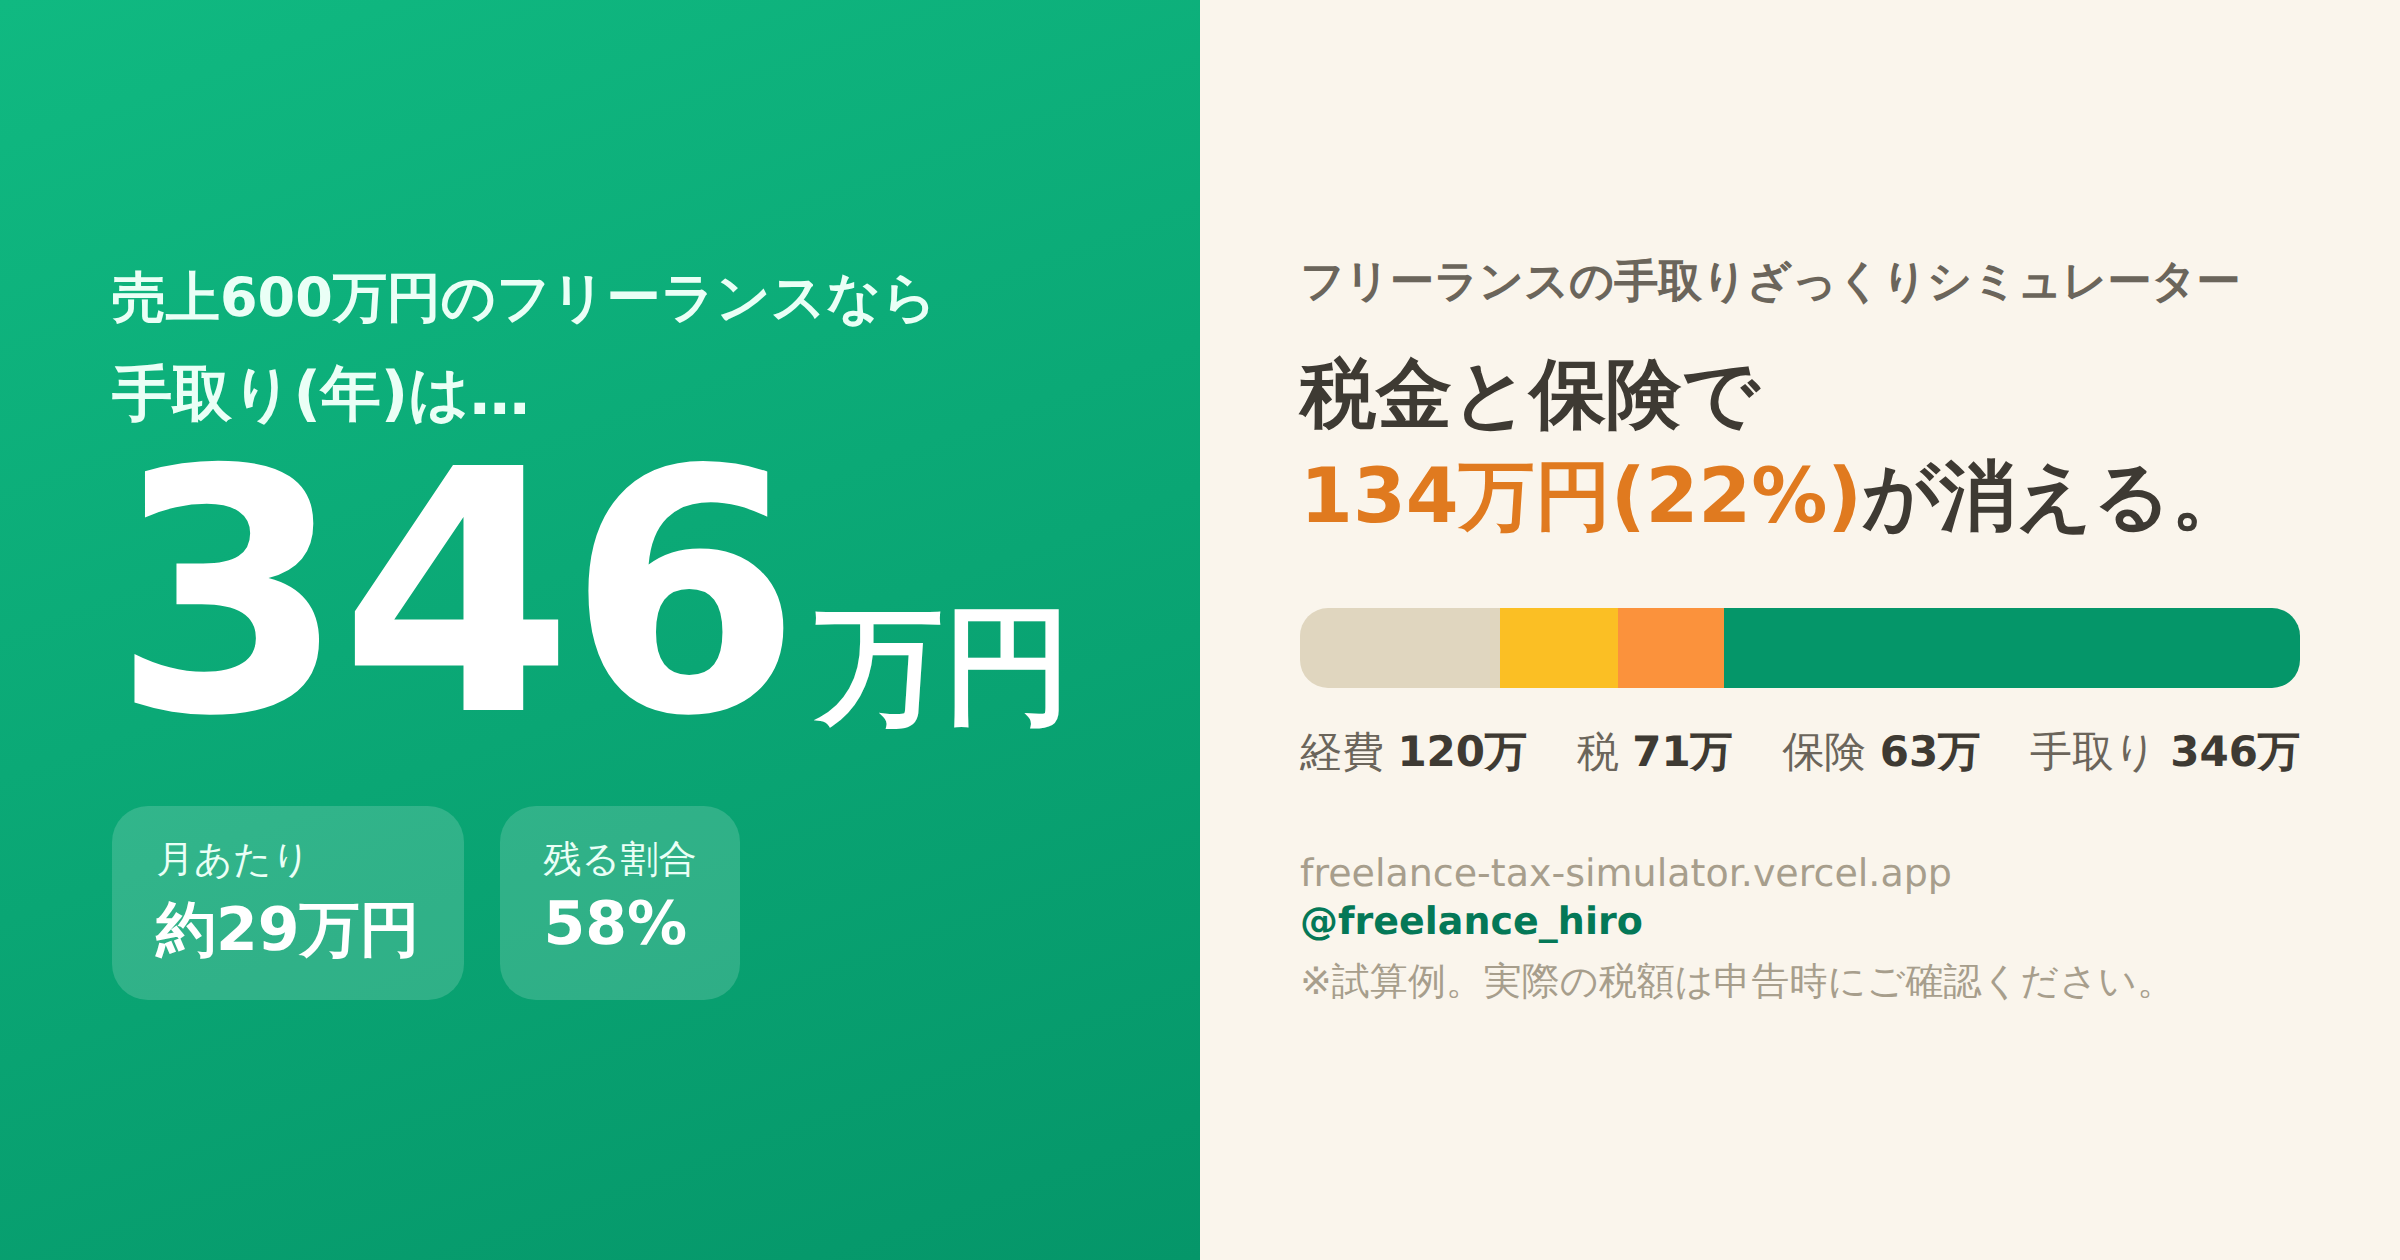
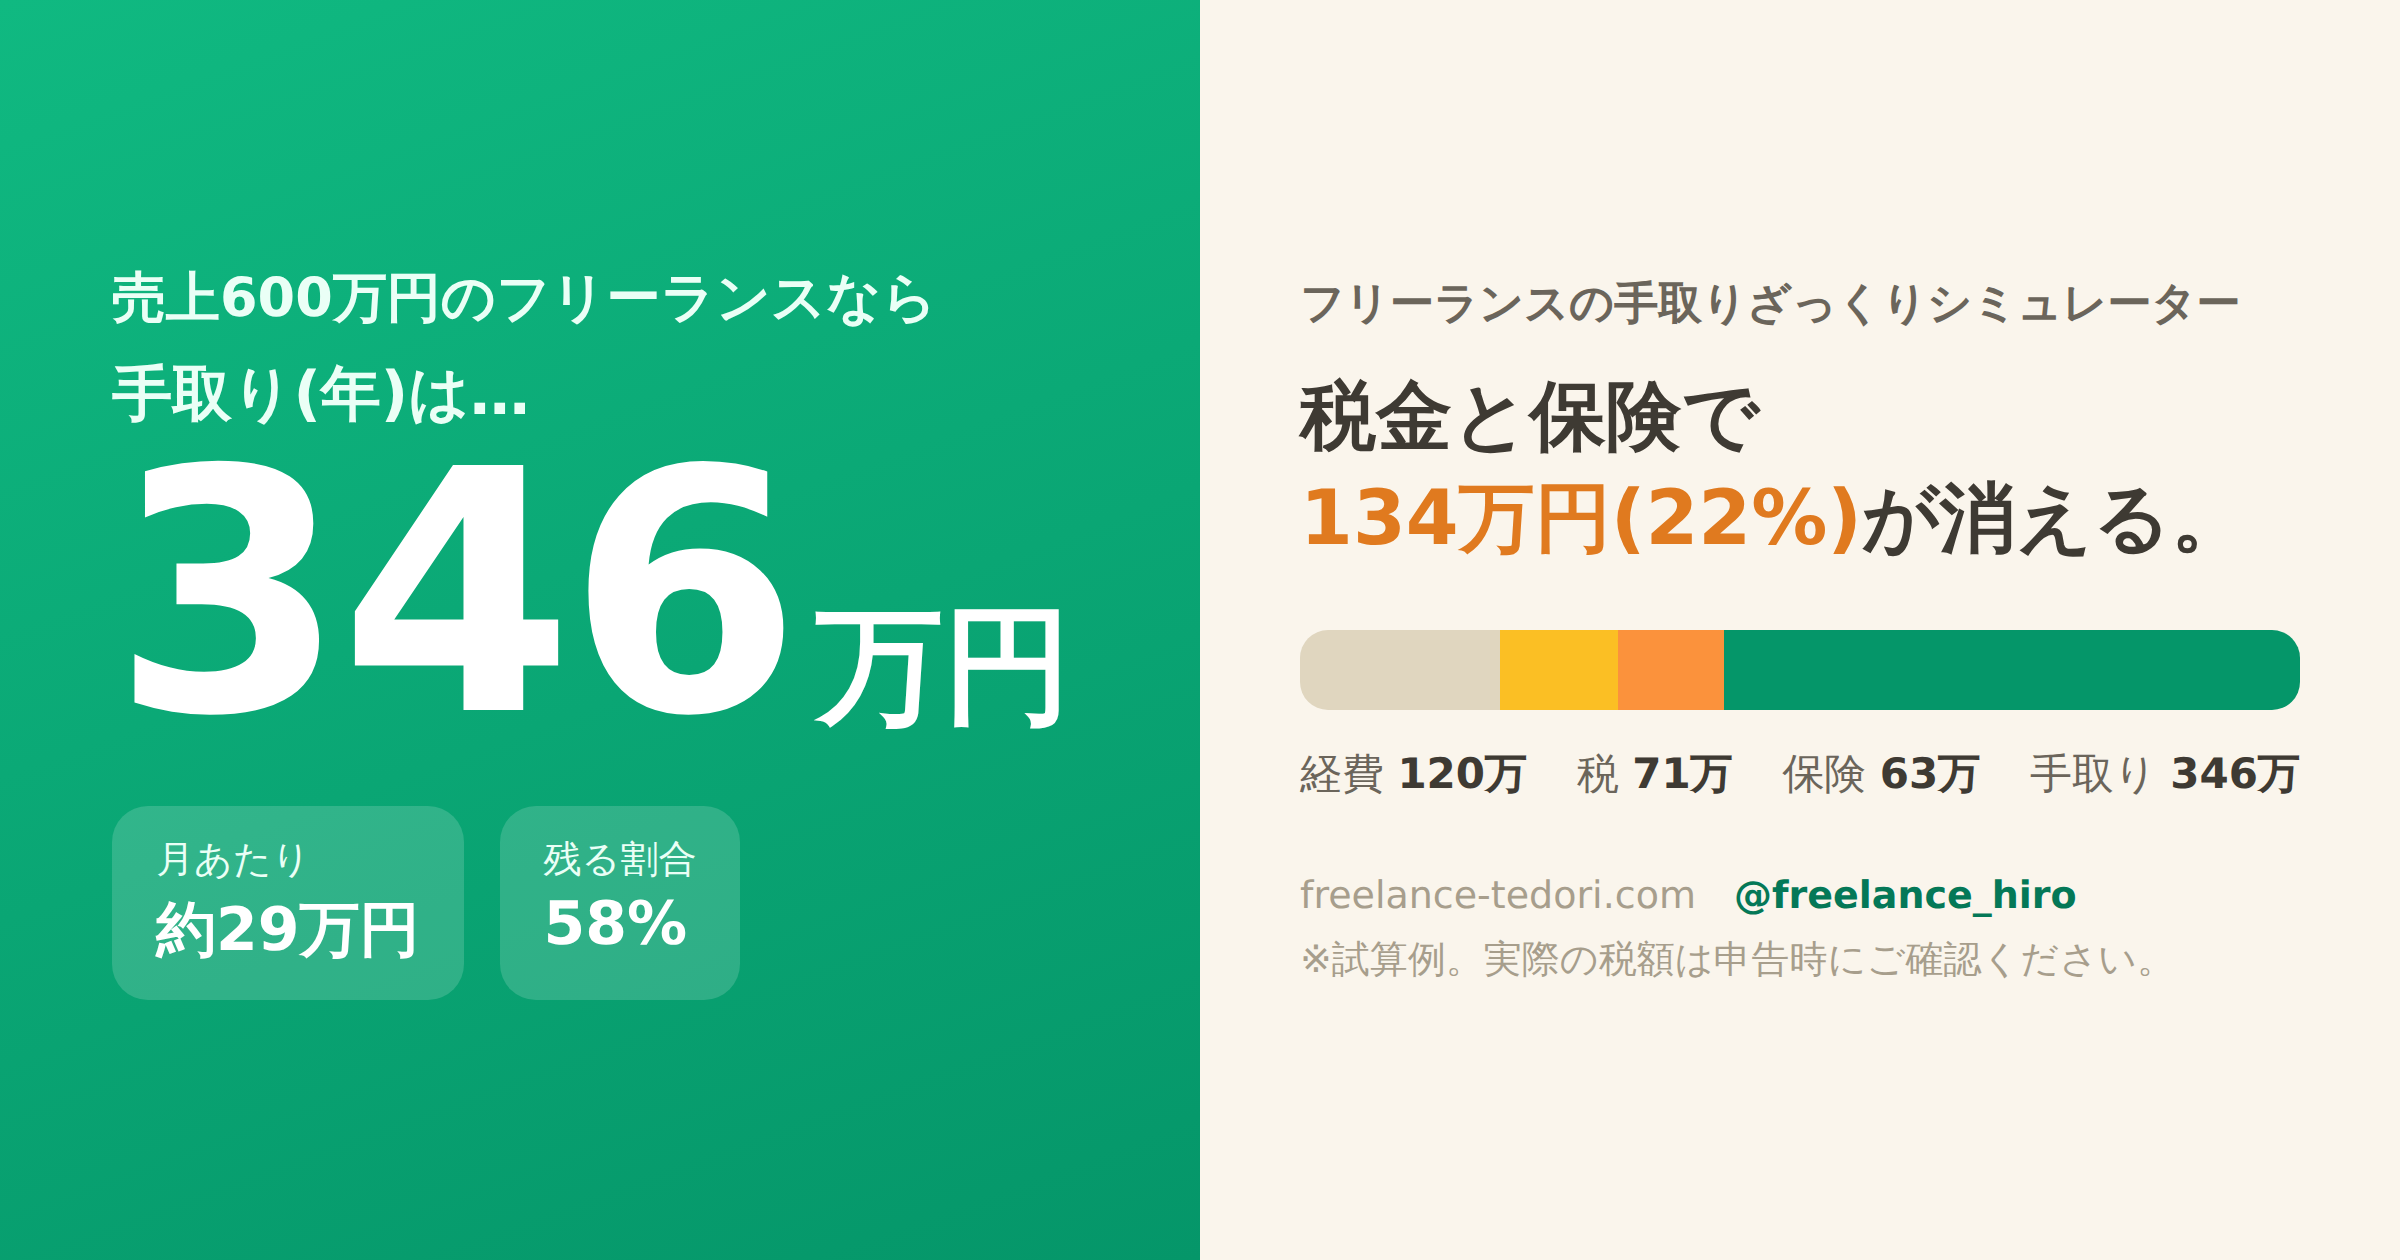
chore(domain): 独自ドメイン freelance-tedori.com に切り替え
- メタ/OGPの SITE_URL、シェアURL(ShareCta / ShareImageButton)を新ドメインに
- OGP画像内のURL表記も freelance-tedori.com に更新して再生成
- 旧 vercel.app は引き続き新ドメインへ集約(リダイレクト)

Claude-Session: https://claude.ai/code/session_01XWn8rCm1g5hmQEPKp5iJMc

Changed region(s): [[0.5312, 0.1857, 0.9688, 0.65], [0.5312, 0.681, 0.875, 0.8048]]

diff --git a/src/components/ShareImageButton.tsx b/src/components/ShareImageButton.tsx
@@ -4,7 +4,7 @@ import { useEffect, useState } from 'react';
 import type { TaxResult } from '@/lib/tax/types';
 import { TAX_YEAR } from '@/lib/tax/constants';
 
-const SHARE_URL = 'https://freelance-tax-simulator.vercel.app';
+const SHARE_URL = 'https://freelance-tedori.com';
 const HANDLE = '@freelance_hiro';
 
 const C = {
@@ -85,7 +85,7 @@ function buildSvg(r: TaxResult): string {
     <g clip-path="url(#bar)">${bars}</g>
     ${legend}
 
-    <text x="108" y="958" font-size="30" fill="${C.ink400}">freelance-tax-simulator.vercel.app</text>
+    <text x="108" y="958" font-size="30" fill="${C.ink400}">freelance-tedori.com</text>
     <text x="972" y="958" font-size="34" font-weight="700" fill="${C.emerald700}" text-anchor="end">${HANDLE}</text>
   </svg>`;
 }

diff --git a/src/app/layout.tsx b/src/app/layout.tsx
@@ -1,7 +1,7 @@
 import type { Metadata, Viewport } from 'next';
 import './globals.css';
 
-const SITE_URL = 'https://freelance-tax-simulator.vercel.app';
+const SITE_URL = 'https://freelance-tedori.com';
 const SITE_NAME = 'フリーランスの手取りざっくりシミュレーター';
 const SITE_DESCRIPTION =
   '売上をいれるだけ。所得税・住民税・国保・年金・事業税・消費税をぜんぶ込みで、フリーランスの手取りをざっくり概算する無料ツール。';